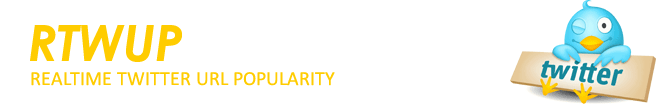
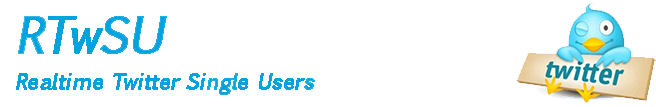
Refactoring and webpage restyling

diff --git a/RTwUP/src/main/javascript/index.html b/RTwUP/src/main/javascript/index.html
@@ -31,15 +31,6 @@
 
 	socket.on('connect', function(data) {
 		setStatus('connected');
-		socket.emit('subscribe', {
-			channel : 'active-users-hourly'
-		});
-		socket.emit('subscribe', {
-			channel : 'active-users-daily'
-		});
-		socket.emit('subscribe', {
-			channel : 'active-users-monthly'
-		});
 		
 		/*To get older values at startup*/
 		var currentDate = new Date();
@@ -88,14 +79,14 @@
 	text-align: center;
 	font-size: large;
 	font-family: "Century Gothic";
-	background-color: #FFCC00;
+	background-color: #38B8FC;
 }
 
 .auto-style3 {
 	text-align: center;
 	font-size: xx-small;
 	font-family: "Century Gothic";
-	background-color: #FFCC00;
+	background-color: #38B8FC;
 }
 
 .auto-style4 {
@@ -113,14 +104,14 @@
 	text-align: center;
 	font-family: "Century Gothic";
 	padding:1;
-	background-color: #FFCC00;
+	background-color: #38B8FC;
 }
 
 .auto-style7 {
 	font-weight: bold;
 	text-align: center;
 	font-family: "Century Gothic";
-	background-color: #FFCC00;
+	background-color: #38B8FC;
 }
 
 body {
@@ -141,7 +132,7 @@ td, tr {padding: 8;}
 		<table class="frame" id="Table_01">
 			<tr>
 				<td height="107" colspan="12" class="auto-style1"><img
-					src="images/head.png" width="656" height="107" alt=""></td>
+					src="images/head.jpg" width="656" height="107" alt=""></td>
 			</tr>
 			<tr>
 				<td colspan="12" class="auto-style2" style="height: 40px">

diff --git a/RTwUP/src/main/javascript/server.js b/RTwUP/src/main/javascript/server.js
@@ -26,9 +26,9 @@ if (!module.parent) {
 	subscriber.subscribe('active-users-updates');
 	const subscriberGetter = redis.createClient();
 
-	function update(type, fieldType, fieldId) {
+	function update(event, fieldType, fieldId) {
 		subscriberGetter.scard(fieldId, function (err, reply) {
-			client.emit(type, {fieldType: fieldType, fieldId: fieldId, fieldValue: reply});
+			client.emit(event, {fieldType: fieldType, fieldId: fieldId, fieldValue: reply});
 		});
 	};
 	
